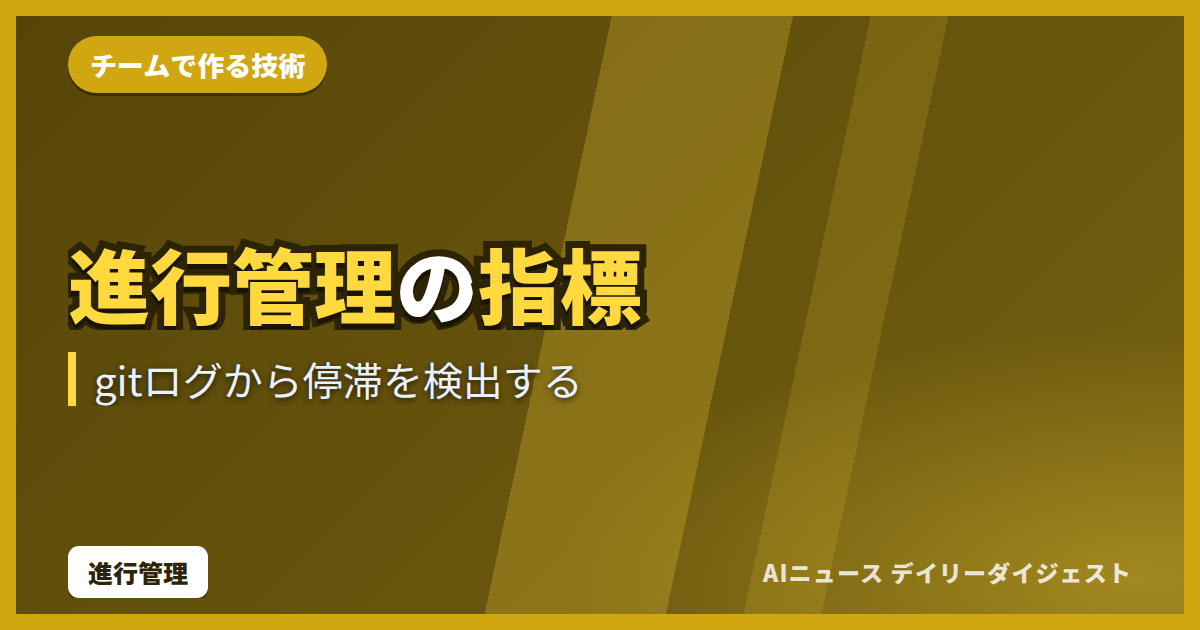
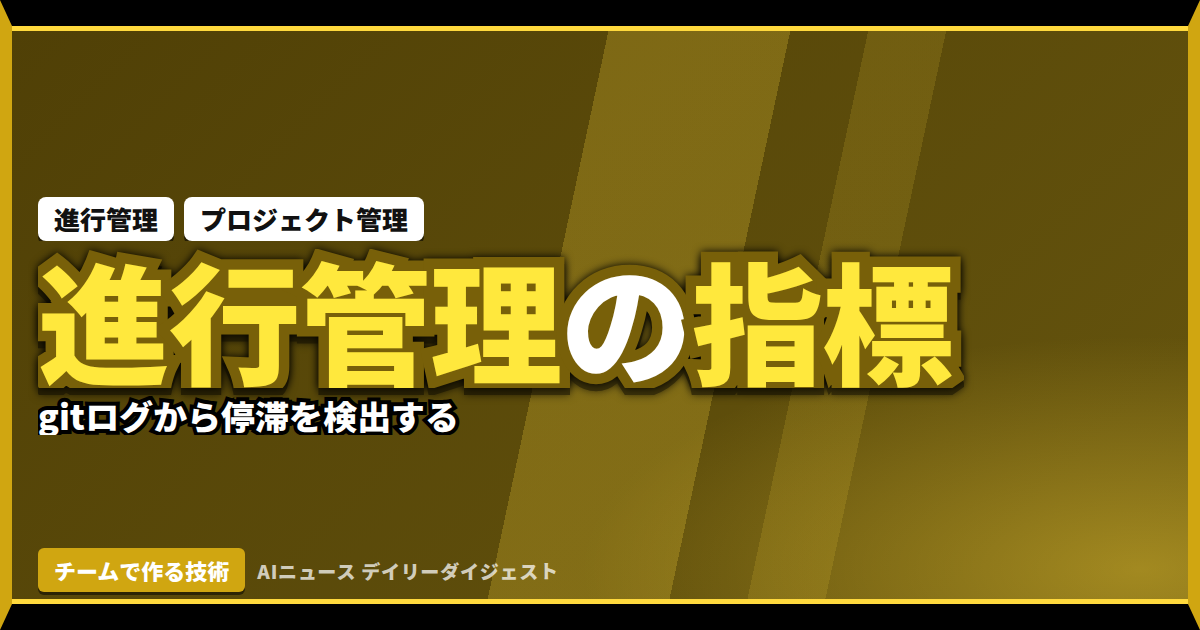
サムネイルの文字を、参考チャンネルの作りに合わせて大幅に強くした
これまでの版は余白が多く大人しかった。参考にしたYouTubeサムネを実際に
落として構造を取り、文字の作りをそこに寄せた。**レイアウトの踏襲であって、
イラストの流用ではない。**

- 黄色の極太フック(黒の縁)
- 製品名を白いカードで横一列に
- 主役は白抜き＋テーマ色を暗くした極太縁＋黒のフチ。画面いっぱいまで拡大
- 補足は白＋黒の縁
- 上下に黒帯を入れて締める

文字サイズは「3行想定」で見積もっていたため、2行で足りる記事が小さく出て
下半分が空いていた。大きいほうから試して実際の行数で収まる最大を採るよう
変えた。

縁の色に chip をそのまま使ったら、黄色系テーマ(チームで作る技術)で背景と
同化して読めなくなった。黒を4割混ぜて必ず背景より暗くしている。
黄色テーマの背景も少し落とした。

全25枚を目視確認。重複なし。表示検証52通りで問題なし。

diff --git a/_render_thumbs.py b/_render_thumbs.py
@@ -70,7 +70,7 @@ THEMES = {
                           h1="#ffcf8a", h2="#d97a12", hi="#ffeccc", iris="#c06a10", pupil="#4a2a04", brow="#b5761f"),
     "クライアント技術":     dict(bg1="#04241b", bg2="#0a4f39", accent="#3ede9f", chip="#12996b",
                           h1="#8ff0c6", h2="#12996b", hi="#d6fdec", iris="#0e7a52", pupil="#03301f", brow="#2f8f68"),
-    "チームで作る技術":     dict(bg1="#2c2405", bg2="#5c4c0a", accent="#ffd93d", chip="#d0a611",
+    "チームで作る技術":     dict(bg1="#241d03", bg2="#4a3d06", accent="#ffd93d", chip="#d0a611",
                           h1="#ffe98a", h2="#c99f0d", hi="#fff6cc", iris="#a8830a", pupil="#3d2f01", brow="#a8871f"),
 }
 DEFAULT_THEME = THEMES["デイリーダイジェスト"]
@@ -167,16 +167,20 @@ def dwidth(text):
 
 
 def size_for(text, avail_px, avail_h, cap, floor, max_lines=3, lh=1.16):
-    """avail_px x avail_h に max_lines 行で収まる最大の文字サイズを返す。
+    """avail_px x avail_h に収まる最大の文字サイズと、そのときの行数を返す。
 
-    行数は常に max_lines を許す。行数を減らして字を大きくしようとすると、
-    "Fargate" のような分割できない英単語が来たときに折り返しが読めず、
-    末尾が "…" で切れる。行数に余裕を持たせ、縦幅で頭打ちにするほうが安全。
+    大きいほうから試して、**実際に必要な行数**で縦が収まる最大を採る。
+    行数を決め打ちして計算すると、2行で足りる文字を3行ぶんの高さで
+    見積もってしまい、下half が空いて間延びする。
     """
+    import math
     w = dwidth(text) or 1
-    by_w = int(2 * avail_px * max_lines * 0.92 / w)   # max_lines 行に収まる大きさ
-    by_h = int(avail_h / (max_lines * lh))            # max_lines 行が縦に収まる大きさ
-    return max(floor, min(cap, by_w, by_h)), max_lines
+    for px in range(cap, floor - 1, -2):
+        per_line = 2 * avail_px / px * 0.94      # 1行に入る表示幅(少し余裕を見る)
+        lines = max(1, math.ceil(w / per_line))
+        if lines <= max_lines and lines * px * lh <= avail_h:
+            return px, lines
+    return floor, max_lines
 
 
 def emphasize(text, terms, e):
@@ -227,111 +231,123 @@ def build_html(meta, dirname):
     main = thumb.get("main", main)
     sub = thumb.get("sub", sub)
 
-    # タグは下段に置くが、長いと右側のサイト名とぶつかる。
-    # 表示幅の合計で打ち切る(全角1文字=2)。
-    tags, budget = [], 20
+    # 製品名は白いカードで横一列に置く(参考にした作りに合わせる)
+    cards_src, budget = [], 30
     for x in (meta.get("tags") or []):
         x = str(x)
         if dwidth(x) + 3 > budget:
             break
-        tags.append(x)
+        cards_src.append(x)
         budget -= dwidth(x) + 3
-        if len(tags) >= 3:
+        if len(cards_src) >= 3:
             break
     cat = meta.get("category", "")
     e = htmlmod.escape
 
-    chara, chara_w = character_img(meta.get("category", ""))
+    chara, chara_w = character_img(cat)
     pat_key, tone = variant_for(dirname)
     pattern = PATTERNS[pat_key].format(a=t["accent"])
     bg1 = _mix(t["bg1"], t["chip"], tone["mix"])
     bg2 = _mix(t["bg2"], t["accent"], tone["mix"] * 0.6)
 
-    # 内側の使える大きさ。枠16px + 左右パディング52px、上下は帯96+84を引く。
-    # キャラクター画像がある場合だけ、そのぶんも文字から引く
-    avail = WIDTH - 2 * 16 - 2 * 52 - chara_w
-    mid_h = HEIGHT - 2 * 16 - 96 - 84
-    sub_px, sub_lines = size_for(sub, avail, 120, 40, 26, 2, 1.35) if sub else (0, 0)
-    sub_box = int(sub_px * 1.35 * sub_lines) + 22 if sub else 0
-    main_px, main_lines = size_for(main, avail, mid_h - sub_box, 108, 46)
+    # 使える横幅。左右パディング26px + 枠12px + キャラのぶんを引く
+    avail = WIDTH - 2 * 12 - 2 * 26 - chara_w
+    card_px = 26
+    hook_px = size_for(hook, avail, 70, 46, 26, 1, 1.06)[0] if hook else 0
+
+    # 上下の帯・フック・カード・補足・フッターを引いた残りが主役の高さ
+    used = 26 * 2 + 14 + 12                      # 黒帯 + 上下パディング
+    used += int(hook_px * 1.06) + 6 if hook else 0
+    used += (card_px + 18 + 6) if cards_src else 0
+    used += 34 + 6                               # フッター
+    sub_px = size_for(sub, avail, 96, 34, 22, 2, 1.15)[0] if sub else 0
+    used += int(sub_px * 1.15 * 2) + 6 if sub else 0
+    main_h = max(150, HEIGHT - used)
+    main_px, main_lines = size_for(main, avail, main_h, 132, 52)
+    stroke_px = max(10, int(main_px * 0.16))
+    # 縁の色。chip をそのまま使うと、黄色系のテーマで背景と同化して読めない。
+    # 黒を混ぜて必ず背景より暗くする。
+    stroke_col = _mix(t["chip"], "#000000", 0.42)
 
     faces = (font_face("NotoJP", "NotoSansJP-Black.ttf", 900)
              + font_face("NotoJP", "NotoSansJP-Regular.ttf", 400))
 
-    import hashlib
-    chips = "".join(f'<span class="tag">{e(x)}</span>' for x in tags)
+    cards = "".join(f'<span class="card">{e(x)}</span>' for x in cards_src)
     main_html = emphasize(main, [str(x) for x in (meta.get("tags") or [])], e)
     return f"""<!doctype html><html lang="ja"><head><meta charset="utf-8"><style>
 {faces}
 *{{margin:0;padding:0;box-sizing:border-box}}
 html,body{{width:{WIDTH}px;height:{HEIGHT}px}}
-body{{font-family:'NotoJP','IPAGothic',sans-serif;background:{bg1}}}
+body{{font-family:'NotoJP','IPAGothic',sans-serif;background:#000}}
 .frame{{
   position:relative;width:{WIDTH}px;height:{HEIGHT}px;overflow:hidden;
   background:
-    radial-gradient({tone['glow']}, {t['accent']}55 0%, transparent 58%),
+    radial-gradient({tone['glow']}, {t['accent']}66 0%, transparent 56%),
     linear-gradient(135deg, {bg1} 0%, {bg2} 100%);
-  border:16px solid {t['chip']};
-  display:grid;grid-template-rows:96px 1fr 84px;padding:0 52px;
+  border-top:26px solid #000;border-bottom:26px solid #000;
+  border-left:12px solid {t['chip']};border-right:12px solid {t['chip']};
 }}
 /* 背景の柄。日付で切り替わる(PATTERNS) */
+.pat{{position:absolute;inset:0;background:{pattern};pointer-events:none}}
+/* 上下の黒帯の内側に、色の細線を1本入れて締める */
+.frame::before{{
+  content:"";position:absolute;left:0;right:0;top:0;height:5px;background:{t['accent']};
+}}
 .frame::after{{
-  content:"";position:absolute;inset:0;pointer-events:none;
-  background:{pattern};
+  content:"";position:absolute;left:0;right:0;bottom:0;height:5px;background:{t['accent']};
 }}
-.row{{position:relative;z-index:2;padding-right:{chara_w}px;display:flex;align-items:center;gap:18px;min-width:0}}
-.cat{{
-  background:{t['chip']};color:#fff;font-weight:900;font-size:27px;
-  padding:9px 22px;border-radius:999px;white-space:nowrap;
-  box-shadow:0 3px 0 rgba(0,0,0,.35);
+.stack{{
+  position:absolute;inset:0;z-index:3;
+  padding:14px 26px 12px;display:flex;flex-direction:column;gap:8px;justify-content:center;
+  padding-right:{26 + chara_w}px;
 }}
+/* 黄色の極太フック。黒の太縁で抜く */
 .hook{{
-  color:{t['accent']};font-weight:900;font-size:36px;white-space:nowrap;
-  text-shadow:2px 2px 0 rgba(0,0,0,.6);
+  color:#ffe83d;font-weight:900;font-size:{hook_px}px;line-height:1.06;
+  -webkit-text-stroke:11px #000;paint-order:stroke fill;
+  letter-spacing:.01em;white-space:nowrap;overflow:hidden;
 }}
-.mid{{
-  position:relative;z-index:2;display:flex;flex-direction:column;
-  justify-content:center;gap:22px;min-width:0;padding-right:{chara_w}px;
+/* 製品名の白カード。参考にした作りに合わせて横一列に */
+.cards{{display:flex;gap:10px;align-items:center;overflow:hidden}}
+.card{{
+  background:#fff;color:#111;font-weight:900;font-size:{card_px}px;line-height:1;
+  padding:9px 16px;border-radius:8px;white-space:nowrap;
+  box-shadow:0 4px 0 rgba(0,0,0,.55);
 }}
+/* 主役。白抜き＋テーマ色の極太縁＋黒のフチ */
 .main{{
-  color:#fff;font-weight:900;line-height:1.14;font-size:{main_px}px;
-  overflow-wrap:anywhere;
-  -webkit-text-stroke:14px {t['bg1']};paint-order:stroke fill;
-  text-shadow:0 5px 0 rgba(0,0,0,.45);
+  color:#fff;font-weight:900;font-size:{main_px}px;line-height:1.05;
+  -webkit-text-stroke:{stroke_px}px {stroke_col};paint-order:stroke fill;
+  filter:drop-shadow(0 0 4px #000) drop-shadow(0 7px 0 rgba(0,0,0,.55));
+  overflow-wrap:anywhere;letter-spacing:-.01em;
   display:-webkit-box;-webkit-line-clamp:{main_lines};-webkit-box-orient:vertical;overflow:hidden;
 }}
-.main em{{font-style:normal;color:{t['accent']}}}
+.main em{{font-style:normal;color:#ffe83d}}
+/* 補足。白＋黒縁 */
 .sub{{
-  color:#eaf2ff;font-weight:400;font-size:{sub_px}px;line-height:1.35;
-  border-left:8px solid {t['accent']};padding-left:18px;
-  text-shadow:0 2px 6px rgba(0,0,0,.7);
+  color:#fff;font-weight:900;font-size:{sub_px}px;line-height:1.15;
+  -webkit-text-stroke:8px #000;paint-order:stroke fill;
   display:-webkit-box;-webkit-line-clamp:2;-webkit-box-orient:vertical;overflow:hidden;
 }}
-.bot{{justify-content:space-between;padding-right:{chara_w}px}}
-.chara{{
-  position:absolute;right:18px;bottom:0;width:{chara_w}px;height:auto;z-index:1;
-  filter:drop-shadow(0 8px 20px rgba(0,0,0,.5));
+.foot{{
+  position:absolute;left:26px;bottom:12px;display:flex;align-items:center;gap:12px;
 }}
-.tags{{display:flex;gap:12px;overflow:hidden;min-width:0;flex:1 1 auto}}
-.tag{{
-  background:#fff;color:{t['bg1']};font-weight:900;font-size:25px;
-  padding:8px 20px;border-radius:11px;white-space:nowrap;
-  box-shadow:0 3px 0 rgba(0,0,0,.3);
+.cat{{
+  background:{t['chip']};color:#fff;font-weight:900;font-size:22px;
+  padding:6px 16px;border-radius:6px;white-space:nowrap;
+  box-shadow:0 3px 0 rgba(0,0,0,.5);
 }}
-.site{{flex:0 0 auto;color:#ffffffd0;font-weight:900;font-size:23px;letter-spacing:.05em;white-space:nowrap}}
+.site{{color:#ffffffbb;font-weight:900;font-size:19px;letter-spacing:.04em;white-space:nowrap}}
+.chara{{position:absolute;right:14px;bottom:26px;width:{chara_w}px;height:auto;z-index:2}}
 </style></head><body><div class="frame">
+  <div class="pat"></div>
   {chara}
-  <div class="row">
-    <span class="cat">{e(cat)}</span>
-    {f'<span class="hook">{e(hook)}</span>' if hook else ''}
-  </div>
-  <div class="mid">
+  <div class="stack">
+    {f'<div class="hook">{e(hook)}</div>' if hook else ''}
+    {f'<div class="cards">{cards}</div>' if cards else ''}
     <div class="main">{main_html}</div>
     {f'<div class="sub">{e(sub)}</div>' if sub else ''}
-  </div>
-  <div class="row bot">
-    <div class="tags">{chips}</div>
-    <div class="site">AIニュース デイリーダイジェスト</div>
+    <div class="foot"><span class="cat">{e(cat)}</span><span class="site">AIニュース デイリーダイジェスト</span></div>
   </div>
 </div></body></html>"""
 
